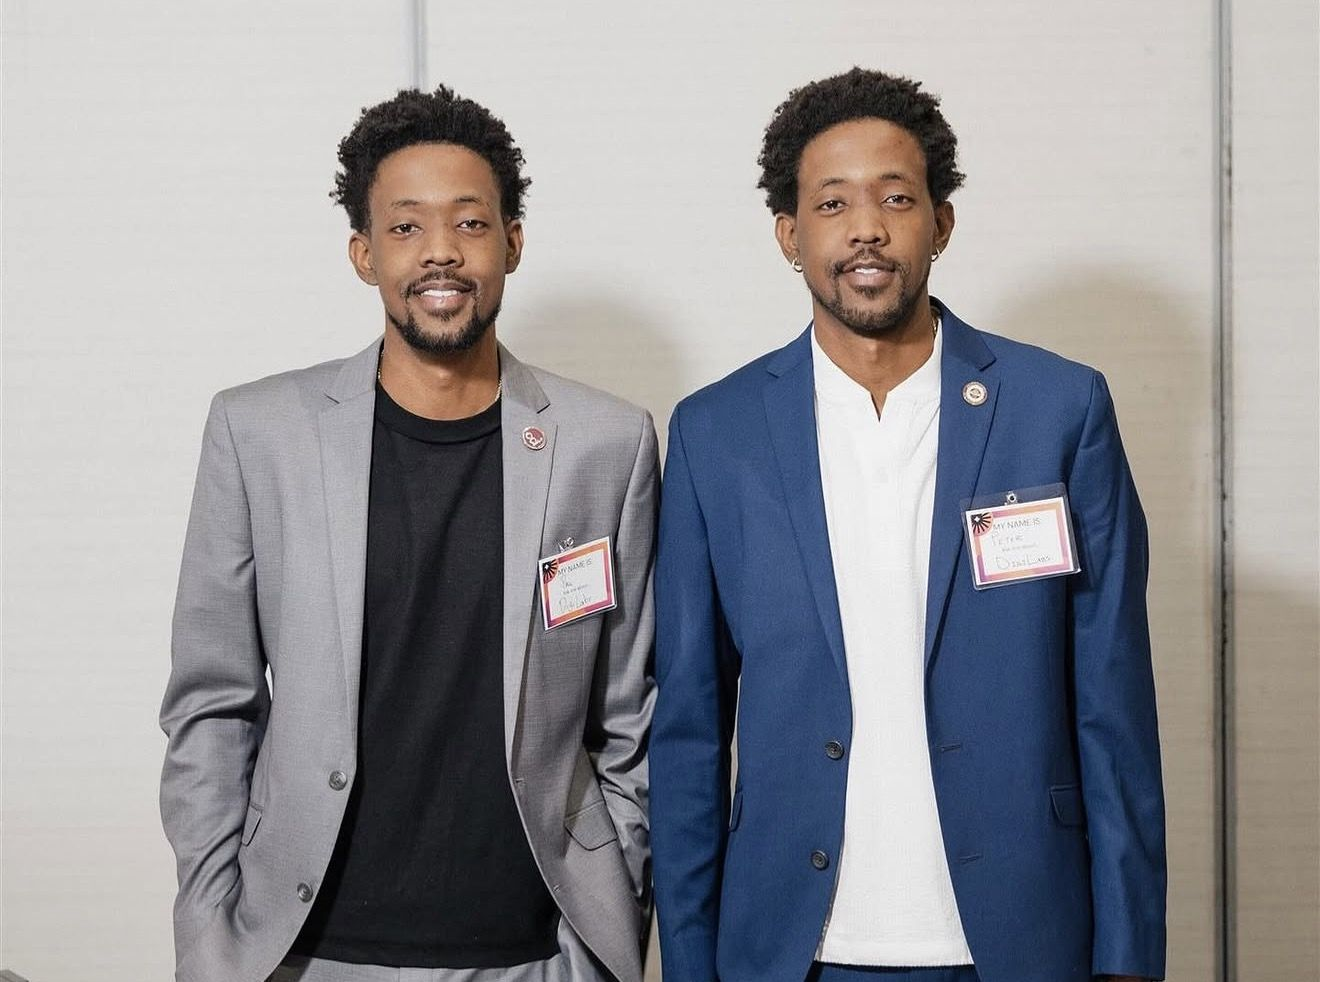
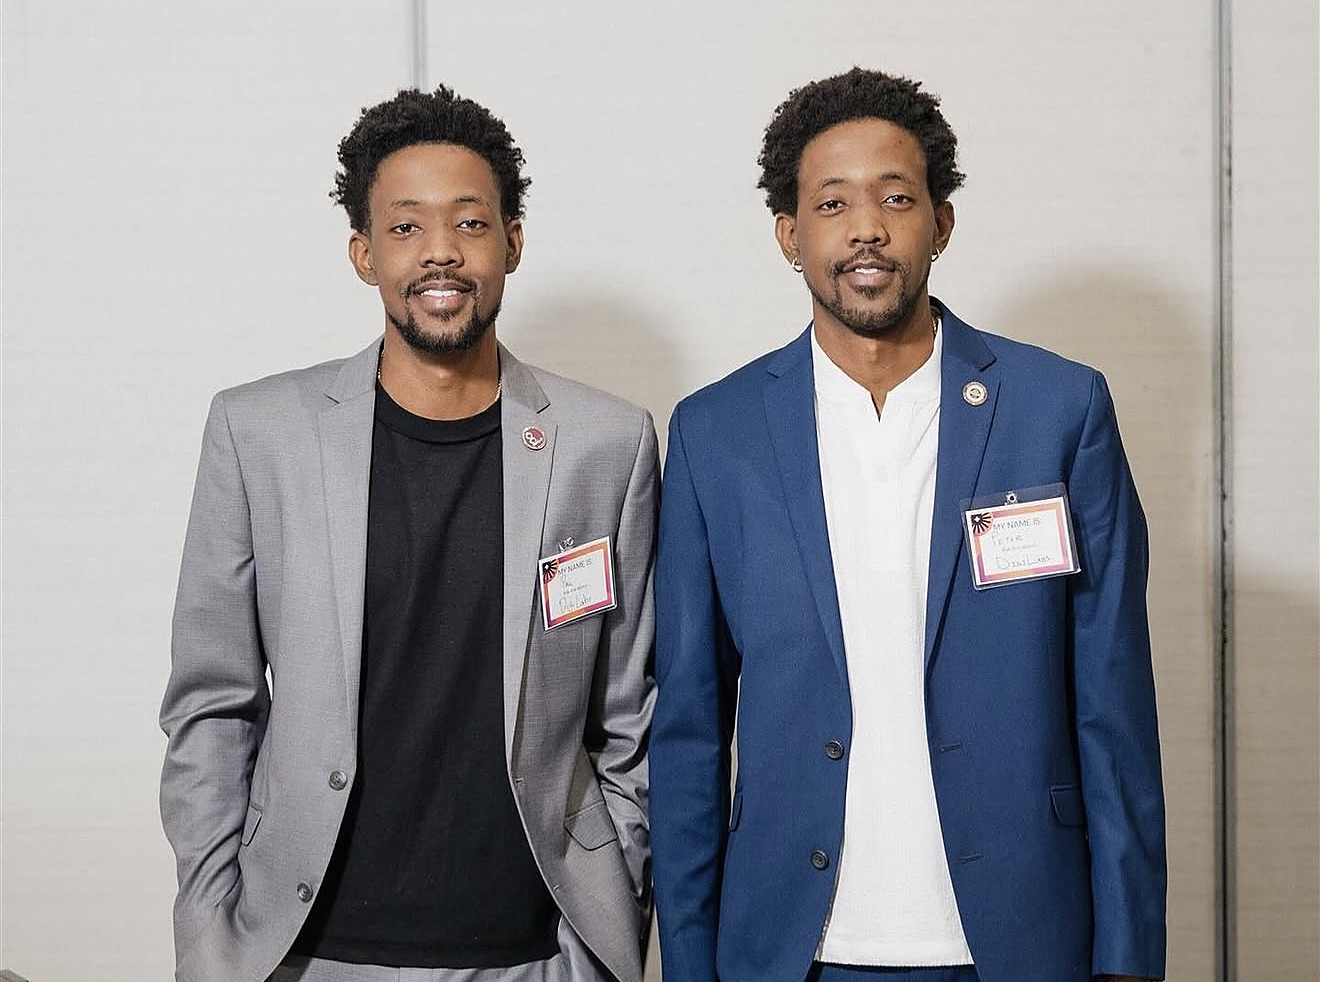
Add Peter's photos; sharp full-res suits photo

Changed region(s): [[0.4038, 0.5499, 0.4659, 0.6415], [0.7144, 0.5193, 0.7455, 0.5499]]

diff --git a/index.html b/index.html
@@ -164,7 +164,7 @@
       <a class="btn btn-primary" href="https://www.digi-labs.org" target="_blank" rel="noopener">Explore TechTank ↗</a>
     </div>
     <div class="v-media">
-      <figure class="v-photo"><img src="/assets/photos/twins-digilabs-suits-sm.jpg" alt="Paul and Peter Woodley in suits wearing DigiLabs name tags" loading="lazy" width="700" height="521"><figcaption class="mono">Paul &amp; Peter, representing DigiLabs</figcaption></figure>
+      <figure class="v-photo"><img src="/assets/photos/twins-digilabs-suits.jpg" alt="Paul and Peter Woodley in suits wearing DigiLabs name tags" loading="lazy" width="1320" height="982"><figcaption class="mono">Paul &amp; Peter, representing DigiLabs</figcaption></figure>
       <div class="video-slot ph"><span>Lab video: desktop teardown<br><small>file to be supplied</small></span></div>
       <div class="video-slot ph"><span>Lab video: drive sanitization (diskpart)<br><small>file to be supplied</small></span></div>
     </div>
@@ -232,9 +232,9 @@
     <h2>Proof, in pictures.</h2>
   </div>
   <div class="grid-gallery">
-    <figure class="g-item wide"><img src="/assets/photos/twins-alaska-glacier-sm.jpg" alt="Paul and Peter standing in front of a glacier and mountains in Alaska" loading="lazy"><figcaption>Alaska, with Peter</figcaption></figure>
+    <figure class="g-item wide"><img style="object-position:center 88%" src="/assets/photos/twins-alaska-glacier-sm.jpg" alt="Paul and Peter standing in front of a glacier and mountains in Alaska" loading="lazy"><figcaption>Alaska, with Peter</figcaption></figure>
     <figure class="g-item tall"><img src="/assets/photos/twins-heat-game-sm.jpg" alt="Paul and Peter at a Miami Heat game" loading="lazy"><figcaption>Heat game</figcaption></figure>
-    <figure class="g-item"><img src="/assets/photos/twins-morning-run-sm.jpg" alt="Paul and Peter on a morning run" loading="lazy"><figcaption>Morning miles</figcaption></figure>
+    <figure class="g-item"><img style="object-position:center 75%" src="/assets/photos/twins-morning-run-sm.jpg" alt="Paul and Peter on a morning run" loading="lazy"><figcaption>Morning miles</figcaption></figure>
     <figure class="g-item"><img src="/assets/photos/twins-dinner-sm.jpg" alt="Paul and his twin brother Peter at dinner" loading="lazy"><figcaption>Paul &amp; Peter</figcaption></figure>
     <figure class="g-item tall"><img src="/assets/photos/parrot-sm.jpg" alt="Paul on a wooden bench next to a blue-and-gold macaw" loading="lazy"></figure>
     <figure class="g-item tall"><img src="/assets/photos/singapore-selfie-sm.jpg" alt="Paul smiling at night in Singapore" loading="lazy"></figure>

diff --git a/styles.css b/styles.css
@@ -178,3 +178,7 @@ h3{font-size:1.35rem}
 .v-photo img{width:100%;aspect-ratio:16/10;object-fit:cover;object-position:center 25%}
 .v-photo figcaption{position:absolute;left:10px;bottom:10px;background:rgba(10,14,19,.78);font-size:.72rem;padding:5px 9px;border-radius:6px}
 .g-item img{position:absolute;inset:0;width:100%;height:100%;object-fit:cover}
+
+.v-photo img{aspect-ratio:auto;max-height:520px;object-position:center 20%}
+.hero-portrait img{object-position:center 30%}
+.v-feature{align-items:start}
